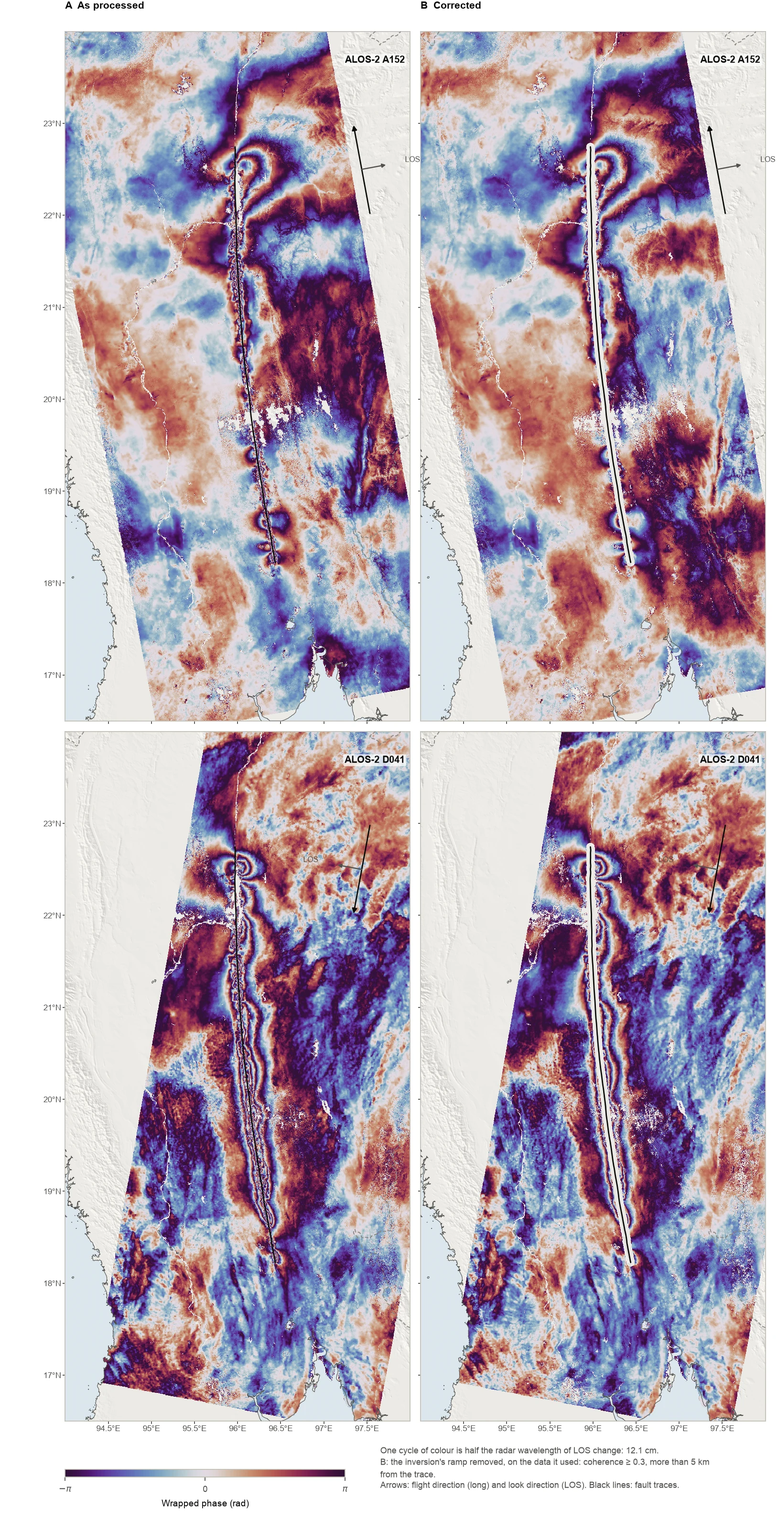
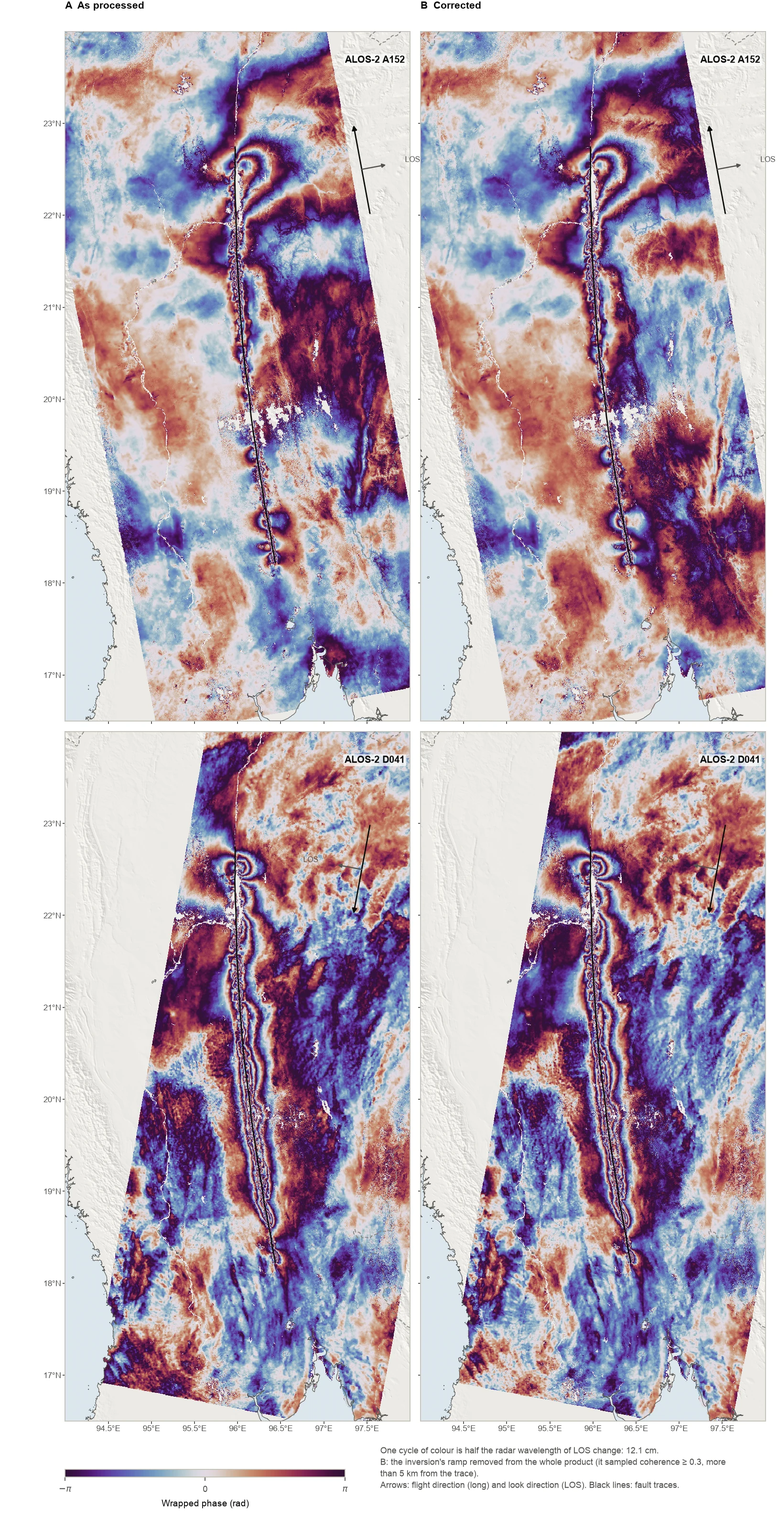
Slip models: the 2025 Dingri (Tingri) earthquake; harmonic-mean Mw; whole-product corrected interferograms; corrected offsets
- Tingri: runs/prod8, Mw 7.06 (Dengmocuo 7.05, western graben fault 5.88), eight figures and the model download.
- Myanmar leads with Mw 7.88, the harmonic mean of the two sides' rigidities above 10 km (7.90 with the east block's);
  Venezuela says its 7.60 is the harmonic mean (7.66 with the south block's).
- Corrected interferograms for Myanmar, Türkiye, Ridgecrest, Kaikōura and Tingri: the inversion's ramp off the whole
  product, nothing masked. Captions flag the two ALOS-2 cubics that disagree with Sentinel-1 (Tingri P047, Kaikōura T102).
- New corrected-offsets figures where the inversion fitted planes: Myanmar, Ridgecrest, Tingri.

Claude-Session: https://claude.ai/code/session_01Jh7HRsr9rCQcLgEgc5zuzg

diff --git a/research/slip-models/index.html b/research/slip-models/index.html
@@ -48,6 +48,7 @@
         <li><a href="#panama-2026">2026 Azuero&ndash;Soná, Panama (Mw 7.7)</a></li>
         <li><a href="#venezuela-2026">2026 San Sebastián, Venezuela (Mw 7.6)</a></li>
         <li><a href="#myanmar-2025">2025 Mandalay, Myanmar (Mw 7.7)</a></li>
+        <li><a href="#tingri-2025">2025 Dingri, Tibet (Mw 7.1)</a></li>
         <li><a href="#turkiye-2023">2023 Kahramanmaraş doublet, Türkiye (Mw 7.8, 7.7)</a></li>
         <li><a href="#ridgecrest-2019">2019 Ridgecrest sequence, California (Mw 6.4, 7.1)</a></li>
         <li><a href="#kaikoura-2016">2016 Kaikōura, New Zealand (Mw 7.8)</a></li>
@@ -112,7 +113,7 @@
           <dd>24 June 2026; one rupture in two stages, which USGS lists as Mww 7.2 and Mww 7.5, 33 seconds apart
           (Mw 7.6 combined)</dd>
           <dt>Our model</dt>
-          <dd>Mw 7.60 for the whole rupture (every image spans both stages); peak slip 3.4 m</dd>
+          <dd>Mw 7.60 for the whole rupture (every image spans both stages), with the harmonic mean of the two sides' rigidities above 25 km (7.66 with the south block's alone); peak slip 3.4 m</dd>
           <dt>Fault</dt>
           <dd>The San Sebastián fault, right-lateral strike-slip, about 260 km long, vertical, to 35 km depth, with a
           softer north block above 25 km (rigidity ratio 1.6)</dd>
@@ -161,7 +162,7 @@
           <dt>Date</dt>
           <dd>28 March 2025, 06:20 UTC; Mw 7.7</dd>
           <dt>Our model</dt>
-          <dd>Mw 7.90 with the east block's rigidity (7.88 with the two sides' mean above 10 km); peak slip 5.6 m, near
+          <dd>Mw 7.88, with the harmonic mean of the two sides' rigidities above 10 km (7.90 with the east block's alone); peak slip 5.6 m, near
           Mandalay and the epicentre</dd>
           <dt>Fault</dt>
           <dd>The Sagaing fault over 504 km, vertical in the south and dipping east to 60° in the north, to 30 km depth;
@@ -186,11 +187,15 @@
           <summary>The data: interferograms and pixel offsets</summary>
           <figure class="slip-figure">
             <a href="../../assets/img/slip/myanmar_2025/insar.webp"><img src="../../assets/img/slip/myanmar_2025/insar.webp" alt="Interferograms of the 2025 Mandalay earthquake, as processed and corrected" loading="lazy"></a>
-            <figcaption><strong>Interferograms.</strong> Each ALOS-2 track (A) as processed (Xu et al., 2025) and (B) corrected: the inversion's ramp removed. B shows the data the inversion used: coherence at least 0.3, more than 5 km from the trace. Wrapped phase: one cycle of colour is half the radar wavelength of line-of-sight change (12.1 cm).</figcaption>
+            <figcaption><strong>Interferograms.</strong> Each ALOS-2 track (A) as processed (Xu et al., 2025) and (B) corrected: the inversion's ramp removed from the whole product. The inversion itself sampled coherence at least 0.3, more than 5 km from the trace. Wrapped phase: one cycle of colour is half the radar wavelength of line-of-sight change (12.1 cm).</figcaption>
           </figure>
           <figure class="slip-figure">
             <a href="../../assets/img/slip/myanmar_2025/gnss_offsets.webp"><img src="../../assets/img/slip/myanmar_2025/gnss_offsets.webp" alt="Pixel offsets for the 2025 Mandalay earthquake" loading="lazy"></a>
             <figcaption><strong>Pixel offsets.</strong> (A) Range and (B) azimuth offsets on each Sentinel-1 and LuTan-1 track (Xu et al., 2025), each map's median removed, without the pixels whose own uncertainty exceeds twice the median. On this north&ndash;south fault the azimuth offsets record the fault-parallel motion directly. All are fitted by the model; no GNSS was used.</figcaption>
+          </figure>
+          <figure class="slip-figure">
+            <a href="../../assets/img/slip/myanmar_2025/offsets_corrected.webp"><img src="../../assets/img/slip/myanmar_2025/offsets_corrected.webp" alt="Offsets of the 2025 Mandalay, Myanmar earthquake, as processed and with the inversion's planes removed" loading="lazy"></a>
+            <figcaption><strong>Corrected offsets.</strong> Each Sentinel-1 series (A) as processed, its median removed, and (B) with the plane the inversion fitted to it removed, on one colour scale per series. LuTan-1's series were fixed with a constant, not a plane, and are not shown.</figcaption>
           </figure>
         </details>
         <details class="slip-more">
@@ -210,6 +215,68 @@
           <figure class="slip-figure">
             <a href="../../assets/img/slip/myanmar_2025/uncertainty.webp"><img src="../../assets/img/slip/myanmar_2025/uncertainty.webp" alt="Uncertainty of slip for the 2025 Mandalay earthquake" loading="lazy"></a>
             <figcaption><strong>Uncertainty.</strong> One standard deviation of slip magnitude from data noise, with the slip contours. Each track's noise covariance is fitted to its residuals by restricted maximum likelihood and propagated through the final inversion, linearised about its solution.</figcaption>
+          </figure>
+        </details>
+      </article>
+
+      <article class="project" id="tingri-2025">
+        <h2>2025 Dingri (Tingri) Earthquake, Tibet</h2>
+        <hr>
+        <dl class="facts">
+          <dt>Date</dt>
+          <dd>7 January 2025, 01:05 UTC; Mw 7.1 (USGS)</dd>
+          <dt>Our model</dt>
+          <dd>Mw 7.06: 7.05 on the Dengmocuo fault and 5.88 on the western graben fault; peak slip 3.0 m, at the surface on
+          the Dengmocuo fault near 28.75°N</dd>
+          <dt>Faults</dt>
+          <dd>The west-dipping Dengmocuo fault, normal with a left-lateral part, on the trace its near-field step follows (the
+          USGS-mapped breaks, continued along the interferograms and offsets), dipping 50° at the surface and flattening toward
+          35° at 25 km; and an antithetic fault on the graben's west side, dipping 45° east with normal slip only and ending on
+          the main fault. Both to 20 km depth; the dips chosen by cross-validation. The bottom is a modelling choice: Mw about
+          7.02&ndash;7.09 for bottoms at 15&ndash;30 km</dd>
+          <dt>Data</dt>
+          <dd>Sentinel-1 interferograms on tracks 012 (ascending) and 121 (descending), ALOS-2 path 47's interferogram and
+          azimuth offsets (He, Feng and Yun, 2025), and 12 GNSS stations (Li et al., 2025)</dd>
+          <dt>Download</dt>
+          <dd><a href="../../assets/data/slip/tingri_2025_slip_model.zip">The slip model</a>: the nodes and triangles of its
+          mesh with their slip, as CSV, and a README with the conventions (zip, 0.03 MB)</dd>
+        </dl>
+        <figure class="slip-figure">
+          <a href="../../assets/img/slip/tingri_2025/slip.webp"><img src="../../assets/img/slip/tingri_2025/slip.webp" alt="Slip on the two faults of the 2025 Dingri, Tibet earthquake, and a map of their traces" loading="lazy"></a>
+          <figcaption><strong>Slip.</strong> (A) Slip magnitude on each fault against distance along strike from its southern end and depth, both at one scale, with each fault's moment magnitude and peak slip. (B) The faults' surface traces on a shaded-relief map, the Dengmocuo fault's bottom edge dashed, with the USGS epicentre.</figcaption>
+        </figure>
+        <figure class="slip-figure">
+          <a href="../../assets/img/slip/tingri_2025/geometry.webp"><img src="../../assets/img/slip/tingri_2025/geometry.webp" alt="Three-dimensional view of the two faults of the 2025 Dingri, Tibet earthquake, coloured by slip" loading="lazy"></a>
+          <figcaption><strong>Geometry.</strong> The two faults in three dimensions, seen from the west-south-west, coloured by slip, with the mesh, the surface traces and the epicentre; depth exaggerated ×1.5.</figcaption>
+        </figure>
+        <details class="slip-more">
+          <summary>The data: interferograms, GNSS and azimuth offsets</summary>
+          <figure class="slip-figure">
+            <a href="../../assets/img/slip/tingri_2025/insar.webp"><img src="../../assets/img/slip/tingri_2025/insar.webp" alt="Interferograms of the 2025 Dingri, Tibet earthquake, as processed and corrected" loading="lazy"></a>
+            <figcaption><strong>Interferograms.</strong> Each track (A) as processed (He, Feng and Yun, 2025) and (B) corrected: the inversion's ramp removed from the whole product, linear for Sentinel-1 and cubic for ALOS-2, whose small footprint is drawn closer. The inversion itself sampled ALOS-2 more than 2 km and Sentinel-1 more than 3 km from the faults. Wrapped phase: one cycle of colour is half the radar wavelength of line-of-sight change. ALOS-2's cubic is poorly held at the corners of its small frame. Against Sentinel-1 track 121, which looks along nearly the same line, it rightly removes a bump of 10&ndash;20 cm west of the faults (about one cycle) but runs up to 45 cm too far at the north-west corner, so that panel shows too many fringes there. Tying the ramp to Sentinel-1 leaves the slip essentially unchanged (Mw within 0.003, 0.03 m rms).</figcaption>
+          </figure>
+          <figure class="slip-figure">
+            <a href="../../assets/img/slip/tingri_2025/gnss_offsets.webp"><img src="../../assets/img/slip/tingri_2025/gnss_offsets.webp" alt="GNSS displacements and ALOS-2 offsets for the 2025 Dingri, Tibet earthquake" loading="lazy"></a>
+            <figcaption><strong>GNSS and pixel offsets.</strong> (A) GNSS displacements (Li et al., 2025), observed (black) and fitted by our model (red); the longest arrows are shortened and labelled with their length. The model is about 25&ndash;30% short of the east&ndash;west extension at 10&ndash;40 km from the faults, in the GNSS and in Sentinel-1 alike. (B, C) ALOS-2 path 47's range and azimuth offsets (He, Feng and Yun, 2025), each map's median removed. The azimuth offsets are fitted. The range offsets are not: they measure the line of sight the interferogram already covers, and differ from it by about 0.1 m over the graben, where Sentinel-1's range offsets differ by about as much the other way.</figcaption>
+          </figure>
+          <figure class="slip-figure">
+            <a href="../../assets/img/slip/tingri_2025/offsets_corrected.webp"><img src="../../assets/img/slip/tingri_2025/offsets_corrected.webp" alt="ALOS-2 azimuth offsets of the 2025 Dingri, Tibet earthquake, as processed and with the inversion's plane removed" loading="lazy"></a>
+            <figcaption><strong>Corrected offsets.</strong> The ALOS-2 azimuth offsets (A) as processed, the median removed, and (B) with the plane the inversion fitted removed, on one colour scale.</figcaption>
+          </figure>
+        </details>
+        <details class="slip-more">
+          <summary>Fits to the data and uncertainty</summary>
+          <figure class="slip-figure">
+            <a href="../../assets/img/slip/tingri_2025/fits_phase.webp"><img src="../../assets/img/slip/tingri_2025/fits_phase.webp" alt="Data, model and residual for the 2025 Dingri, Tibet earthquake: interferograms" loading="lazy"></a>
+            <figcaption><strong>Fits: interferograms.</strong> Each track's samples: (A) the data with the inversion's ramp removed, (B) the model's fault part and (C) the residual, with its rms.</figcaption>
+          </figure>
+          <figure class="slip-figure">
+            <a href="../../assets/img/slip/tingri_2025/fits_azimuth.webp"><img src="../../assets/img/slip/tingri_2025/fits_azimuth.webp" alt="Data, model and residual for the 2025 Dingri, Tibet earthquake: azimuth offsets" loading="lazy"></a>
+            <figcaption><strong>Fits: azimuth offsets.</strong> The ALOS-2 samples: (A) the data with the inversion's plane removed, (B) the model's fault part and (C) the residual, with its rms.</figcaption>
+          </figure>
+          <figure class="slip-figure">
+            <a href="../../assets/img/slip/tingri_2025/uncertainty.webp"><img src="../../assets/img/slip/tingri_2025/uncertainty.webp" alt="Uncertainty of slip for the 2025 Dingri, Tibet earthquake" loading="lazy"></a>
+            <figcaption><strong>Uncertainty.</strong> One standard deviation of slip magnitude from data noise, with the slip contours. Each track's noise covariance is fitted to its residuals by restricted maximum likelihood and propagated through the final inversion, linearised about its solution. For ALOS-2's interferogram and azimuth offsets that fit was not stable, and their noise is taken as independent at their residual rms, which leaves out correlated noise: a lower bound there.</figcaption>
           </figure>
         </details>
       </article>
@@ -245,7 +312,7 @@
           <summary>The data: interferograms, GNSS and pixel offsets</summary>
           <figure class="slip-figure">
             <a href="../../assets/img/slip/turkiye_2023/insar.webp"><img src="../../assets/img/slip/turkiye_2023/insar.webp" alt="Interferograms of the 2023 Kahramanmaraş earthquake doublet, as processed and corrected" loading="lazy"></a>
-            <figcaption><strong>Interferograms.</strong> Each track (A) as processed and (B) corrected: the inversion's ramp removed. B shows the data the inversion used: the coherent far field (coherence at least 0.25), more than 15 km from the faults, where LiCSAR's unwrapping fails across the ruptures; the pixel offsets cover the near field. Track 094D's two frames share a row; each entered the inversion as its own track. Wrapped phase: one cycle of colour is half the radar wavelength of line-of-sight change.</figcaption>
+            <figcaption><strong>Interferograms.</strong> Each track (A) as processed and (B) corrected: the inversion's ramp removed from the whole product. The inversion itself sampled the coherent far field (coherence at least 0.25), more than 15 km from the faults, where LiCSAR's unwrapping fails across the ruptures; the pixel offsets cover the near field. Track 094D's two frames share a row; each entered the inversion as its own track. Wrapped phase: one cycle of colour is half the radar wavelength of line-of-sight change.</figcaption>
           </figure>
           <figure class="slip-figure">
             <a href="../../assets/img/slip/turkiye_2023/gnss_offsets.webp"><img src="../../assets/img/slip/turkiye_2023/gnss_offsets.webp" alt="GNSS displacements and pixel offsets for the 2023 Kahramanmaraş earthquake doublet" loading="lazy"></a>
@@ -306,11 +373,15 @@
           <summary>The data: interferograms, GNSS and optical offsets</summary>
           <figure class="slip-figure">
             <a href="../../assets/img/slip/ridgecrest_2019/insar.webp"><img src="../../assets/img/slip/ridgecrest_2019/insar.webp" alt="Interferograms of the 2019 Ridgecrest earthquake sequence, as processed and corrected" loading="lazy"></a>
-            <figcaption><strong>Interferograms.</strong> Each track (A) as processed (Xu, Sandwell and colleagues) and (B) corrected: the inversion's ramp removed, cubic for ALOS-2 and linear for Sentinel-1. B shows the data the inversion used: more than 2 km from the faults. Wrapped phase: one cycle of colour is half the radar wavelength of line-of-sight change.</figcaption>
+            <figcaption><strong>Interferograms.</strong> Each track (A) as processed (Xu, Sandwell and colleagues) and (B) corrected: the inversion's ramp removed from the whole product, cubic for ALOS-2 and linear for Sentinel-1. The inversion itself sampled more than 2 km from the faults. Wrapped phase: one cycle of colour is half the radar wavelength of line-of-sight change.</figcaption>
           </figure>
           <figure class="slip-figure">
             <a href="../../assets/img/slip/ridgecrest_2019/gnss_offsets.webp"><img src="../../assets/img/slip/ridgecrest_2019/gnss_offsets.webp" alt="GNSS displacements and optical offsets for the 2019 Ridgecrest earthquake sequence" loading="lazy"></a>
             <figcaption><strong>GNSS and optical offsets.</strong> (A) GNSS displacements (Nevada Geodetic Laboratory), observed (black) and fitted by our model (red); the longest arrows are shortened and labelled with their length. (B, C) The east and north Sentinel-2 offsets (Valkaniotis, 2019; COSI-Corr, detrended by the author), each map's median removed. Both are fitted by the model.</figcaption>
+          </figure>
+          <figure class="slip-figure">
+            <a href="../../assets/img/slip/ridgecrest_2019/offsets_corrected.webp"><img src="../../assets/img/slip/ridgecrest_2019/offsets_corrected.webp" alt="Optical offsets of the 2019 Ridgecrest earthquake sequence, as processed and with the inversion's planes removed" loading="lazy"></a>
+            <figcaption><strong>Corrected offsets.</strong> The Sentinel-2 east and north offsets (A) as processed, each map's median removed, and (B) with the plane the inversion fitted to each removed, on one colour scale per row. These maps were detrended by their author, so the plane the inversion fits mostly puts a trend back, as the larger far-field values in B show.</figcaption>
           </figure>
         </details>
         <details class="slip-more">
@@ -363,7 +434,7 @@
           <summary>The data: interferograms, GNSS and the 3-D displacement field</summary>
           <figure class="slip-figure">
             <a href="../../assets/img/slip/kaikoura_2016/insar.webp"><img src="../../assets/img/slip/kaikoura_2016/insar.webp" alt="Interferograms of the 2016 Kaikōura earthquake, as processed and corrected" loading="lazy"></a>
-            <figcaption><strong>Interferograms.</strong> Each track (A) as processed (Tong, Xu, Sandwell and colleagues) and (B) corrected: the inversion's ramp removed, cubic for ALOS-2 and linear for Sentinel-1. B shows the data the inversion used: ALOS-2 more than 5 km and Sentinel-1 more than 15 km from the faults, where its unwrapping fails across the ruptures. ALOS-2 track T194's sparse points are drawn on a coarser grid. Wrapped phase: one cycle of colour is half the radar wavelength of line-of-sight change.</figcaption>
+            <figcaption><strong>Interferograms.</strong> Each track (A) as processed (Tong, Xu, Sandwell and colleagues) and (B) corrected: the inversion's ramp removed from the whole product, cubic for ALOS-2 and linear for Sentinel-1. The inversion itself sampled ALOS-2 more than 5 km and Sentinel-1 more than 15 km from the faults, where its unwrapping fails across the ruptures. T102's cubic rests on only 64 samples and is poorly held: beyond 15 km of the faults this track agrees with Sentinel-1, which looks along nearly the same line, to 38 mm as delivered but to 232 mm corrected, so its panel B overstates the ramp. ALOS-2 track T194's sparse points are drawn on a coarser grid. Wrapped phase: one cycle of colour is half the radar wavelength of line-of-sight change.</figcaption>
           </figure>
           <figure class="slip-figure">
             <a href="../../assets/img/slip/kaikoura_2016/gnss_offsets.webp"><img src="../../assets/img/slip/kaikoura_2016/gnss_offsets.webp" alt="GNSS displacements and the 3-D displacement field for the 2016 Kaikōura earthquake" loading="lazy"></a>
